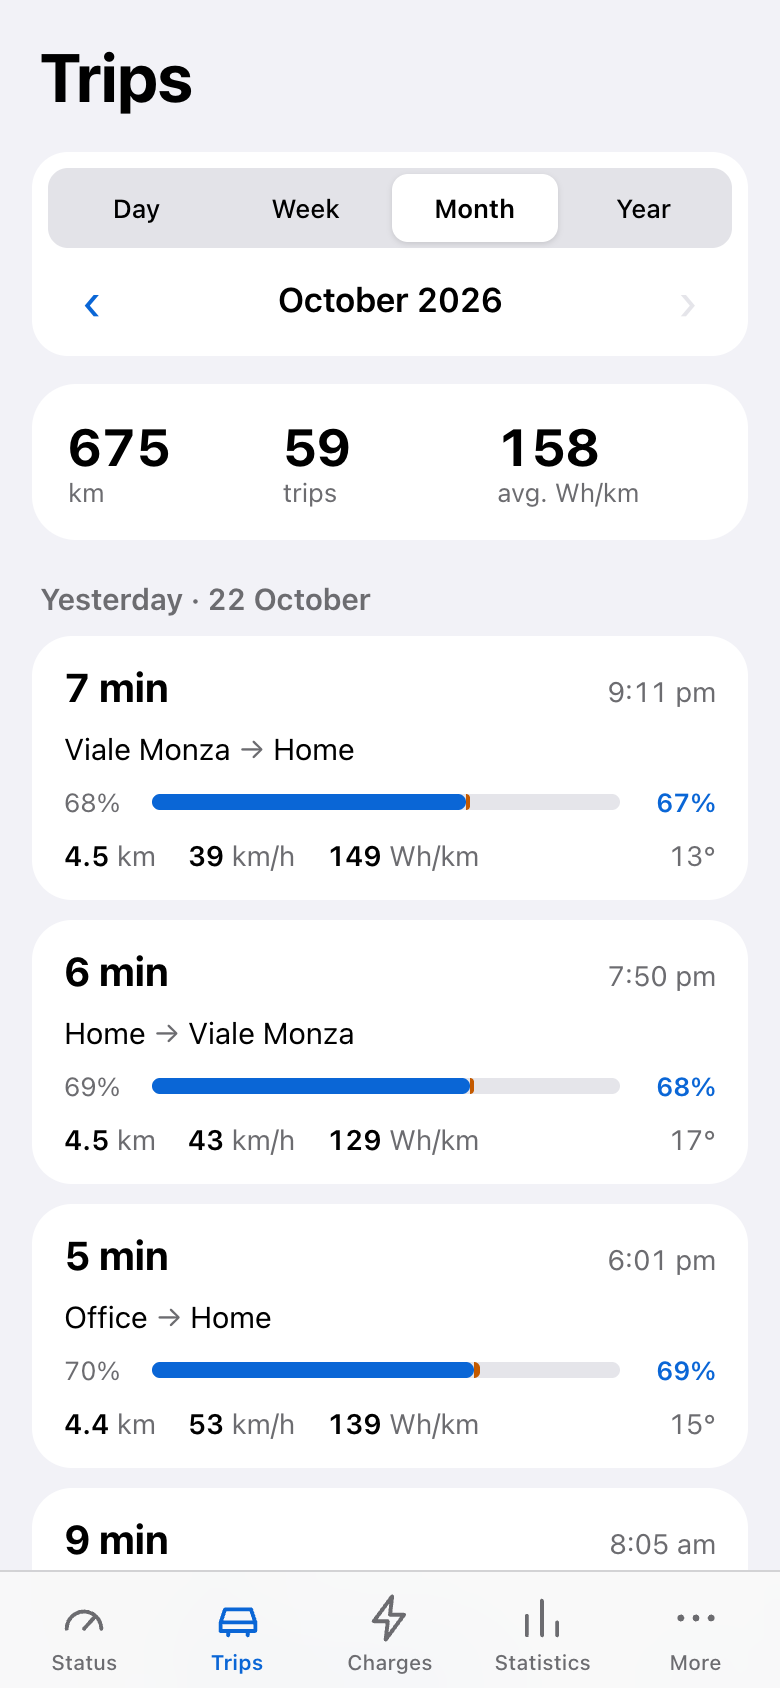
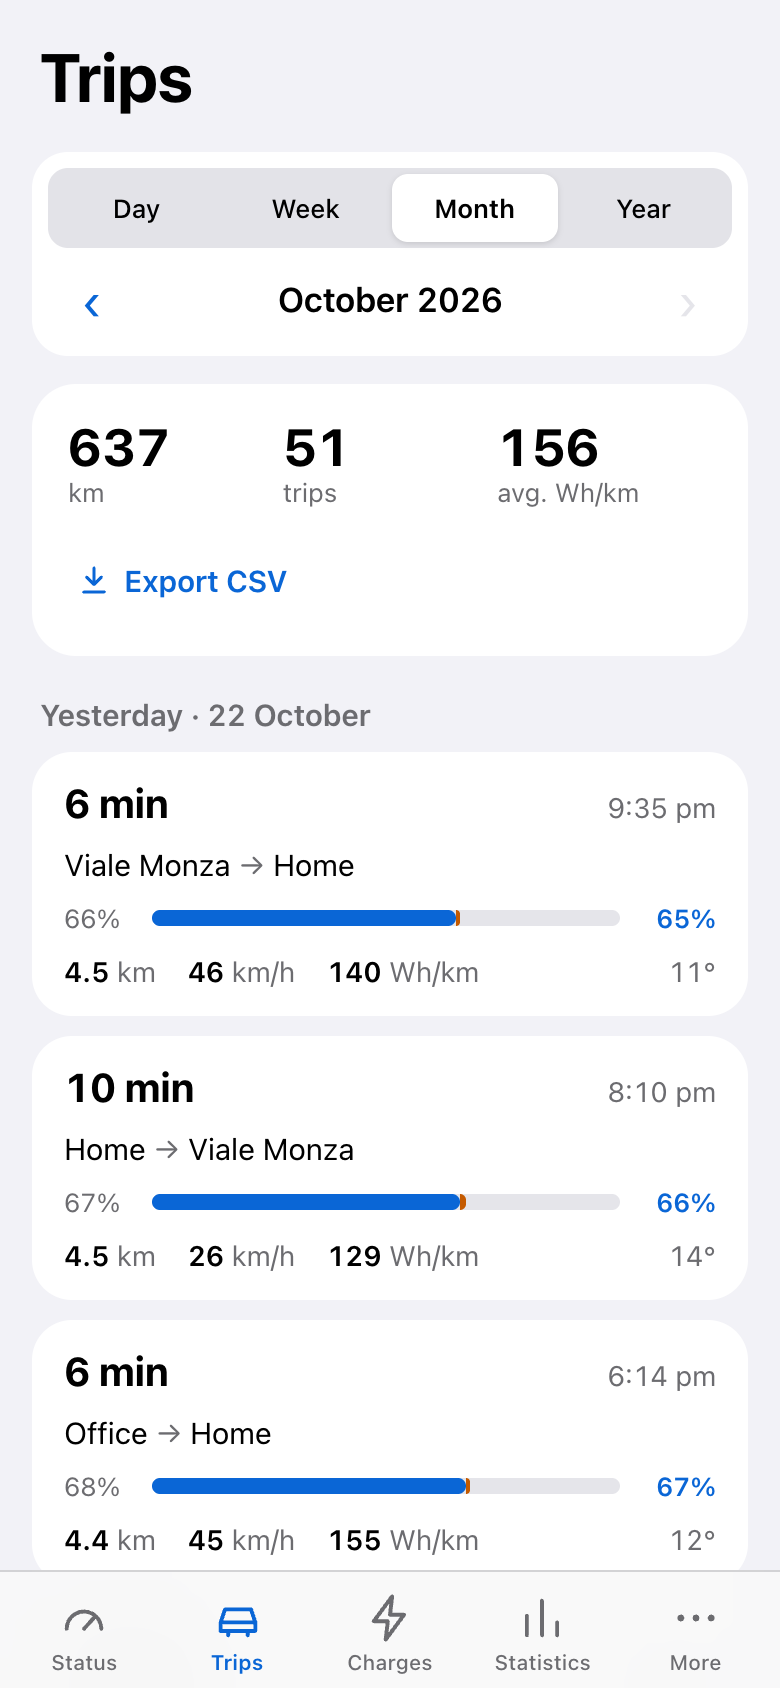
Consumo da fermo: dati demo con perdita notturna, ricarica larga a capo, README, screenshot; app 0.11.0

diff --git a/screens/stats.jsx b/screens/stats.jsx
@@ -120,10 +120,19 @@ function IdleCard() {
 
 // The stop (≥ 12 h) that ended with this trip/charge, if any.
 function IdleLine({ type, id }) {
+  const t = useT();
   const s = (window.TM_IDLE || []).find(x => x.next.type === type && x.next.id === id);
   if (!s) return null;
   const value = `${fmtMin(s.hours * 60)} · −${fmtN(s.lostPct)}%${s.kwh != null ? ` · ${fmtN(s.kwh, 1)} kWh` : ''}`;
-  return <ListCard label={tr('Consumo da fermo')}><Row label={type === 'drive' ? tr('Sosta prima di questo viaggio') : tr('Sosta prima di questa ricarica')} value={value} last/></ListCard>;
+  // label above value, both wrapping: a Row would overflow on a narrow screen with large text
+  return (
+    <ListCard label={tr('Consumo da fermo')}>
+      <div style={{ padding: '12px 0', overflowWrap: 'anywhere' }}>
+        <div style={{ fontSize: 16 }}>{type === 'drive' ? tr('Sosta prima di questo viaggio') : tr('Sosta prima di questa ricarica')}</div>
+        <div style={{ fontSize: 15, color: t.sub }}>{value}</div>
+      </div>
+    </ListCard>
+  );
 }
 
 function ConsumptionScatter({ title, pts, unitX, eff, effMax, color, fmtX }) {

diff --git a/screens/charges.jsx b/screens/charges.jsx
@@ -206,7 +206,7 @@ function ChargeDetail({ id, onBack, onPrev, onNext, hasPrev, hasNext }) {
       </div>
 
       <Card label={tr('Energia caricata')}>
-        <div style={{ display: 'flex', alignItems: 'baseline', gap: 6, color: fg }}>
+        <div style={{ display: 'flex', flexWrap: 'wrap', alignItems: 'baseline', gap: 6, color: fg }}>
           <span style={{ fontSize: 46, fontWeight: 700, letterSpacing: -1 }}>+{fmtN(c.kwh, 1)}</span><span style={{ fontSize: 18, fontWeight: 600 }}>kWh</span>
         </div>
         <SocBar mode="charge" from={c.from} to={c.to} accent={fg} height={10} big/>

diff --git a/demo/mock-api.js b/demo/mock-api.js
@@ -131,6 +131,7 @@ function build(now = Date.now(), seed = 42, odo0 = 24300) {
     if (R() < 0.03) { const x = drive(P.home, P.linate, at(day, 6, 30), false); drive(P.linate, P.home, x + 20 * 60000, false); }
     if (soc < 22) charge(P.scEast, at(day, 21, 30), 75, true);
     if (soc < 55 || (soc < 70 && R() < 0.3)) charge(P.home, at(day, 22, 30), 80, false);
+    soc = Math.max(5, soc - (0.5 + (Math.round(day / DAY) % 4) * 0.4)); // parked overnight: ~0.5-1.7 % lost (no RNG: keeps the other data the same)
   }
 
   const last = { odo, soc: 62, temp: tempAt(now), health: health(odo) };

diff --git a/screens/more.jsx b/screens/more.jsx
@@ -1,7 +1,7 @@
 // Altro + Salute batteria + Luoghi + Aggiornamenti
 // (spec: docs/design/screens/09-altro.html, 10-salute-batteria.html)
 
-const APP_VERSION = '0.10.0';
+const APP_VERSION = '0.11.0';
 const fmtDate = (iso) => { if (!iso) return '—'; const d = new Date(iso); return `${d.getDate()} ${MESI3[d.getMonth()]} ${d.getFullYear()}`; };
 
 function MoreScreen({ api, open, pending, onPrefChange }) {

diff --git a/sw.js b/sw.js
@@ -1,7 +1,7 @@
 // TeslaMate PWA — Service Worker
 // App files: network first with offline copy. CDN libraries: cache first. API: network only.
 
-const CACHE = 'teslamate-pwa-v8';
+const CACHE = 'teslamate-pwa-v9';
 const NET_TIMEOUT_MS = 3000; // slower than this (bad signal, VPN down): use the saved copy
 const SHELL = [
   './pwa.html',

diff --git a/README.md b/README.md
@@ -22,6 +22,7 @@ commands to the car.
 
 <sub>Screenshots taken with invented demo data.</sub>
 
+**Screens:** phone, tablet and desktop layouts (side bar and list + detail for trips and charges from 1100 px). Trips and charges of the selected period can be exported as CSV. Idle (parked) battery drain is worked out from stops of 12 h or more.
 **Languages:** English and Italian: follows the device, can be chosen per device in the app or set in `config.js`.
 **Units:** km or miles and °C or °F, following TeslaMate's settings (elevation always in metres); currency set in `config.js`.
 
@@ -91,8 +92,9 @@ Better: set the cost per kWh in TeslaMate's geofences, it is then used by Grafan
 
 ## How it works
 
-- `pwa.html` loads React, Babel standalone and Leaflet from unpkg (with SRI) and compiles the
-  `.jsx` files in the browser.
+- `pwa.html` loads React and Leaflet from unpkg (with SRI). In the Docker image the `.jsx` files are
+  compiled at build time (`build.js` → `dist/`), which makes the start about four times faster; when you
+  serve the source tree directly (development), Babel standalone compiles them in the browser.
 - `api.jsx` calls TeslaMateAPI, normalizes the data and caches the last state in `localStorage`,
   so the app opens instantly with the last known data.
 - `sw.js` caches the app shell; API calls always go to the network.
@@ -120,7 +122,11 @@ TM_MOCK=1 npm test                           # demo data
 node demo/screenshots.js                     # regenerates docs/screenshots/
 ```
 
-When you add or rename app files, update the list in `sw.js` (and bump `CACHE`) and in the `Dockerfile`.
+`npm run build` writes the compiled app to `dist/`; `ROOT=dist TM_MOCK=1 npm test` runs the same tests on it.
+GitHub Actions runs both on every pull request (`.github/workflows/test.yml`).
+
+When you add or rename app files, update the list in `sw.js` (and bump `CACHE`) and in the `Dockerfile`
+(the script list itself is read from `pwa.html`).
 
 ## License
 
